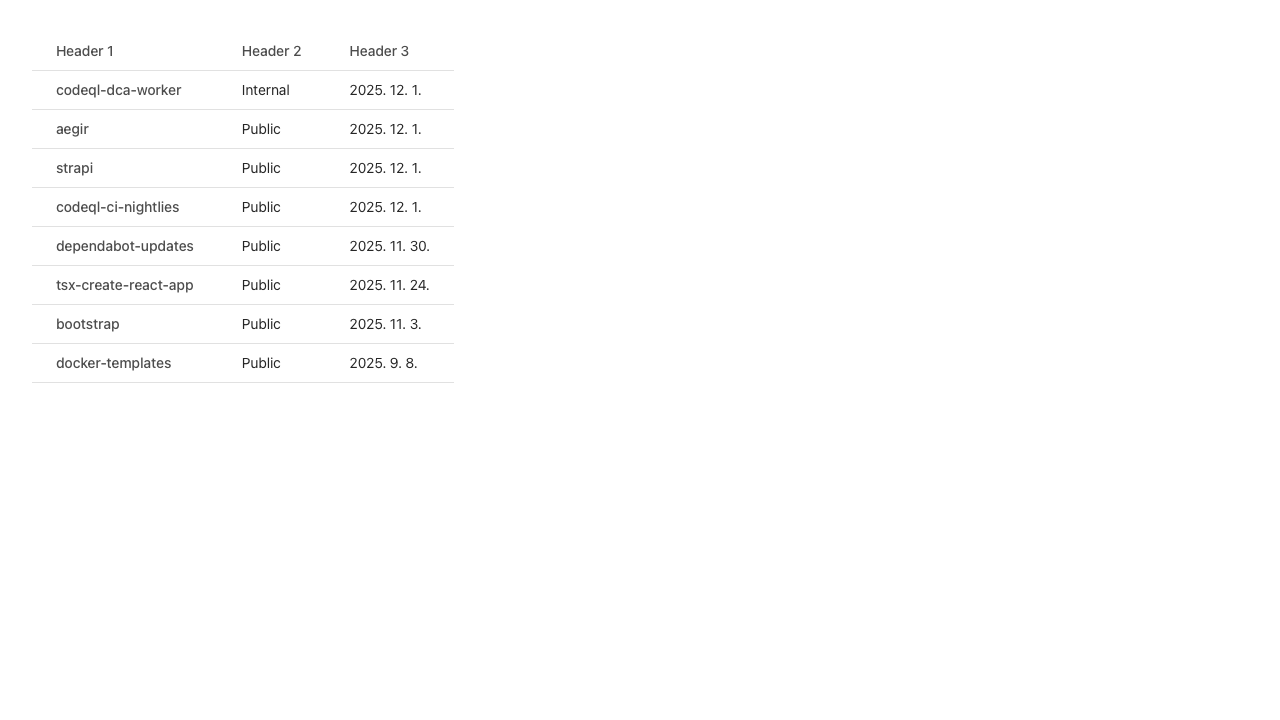
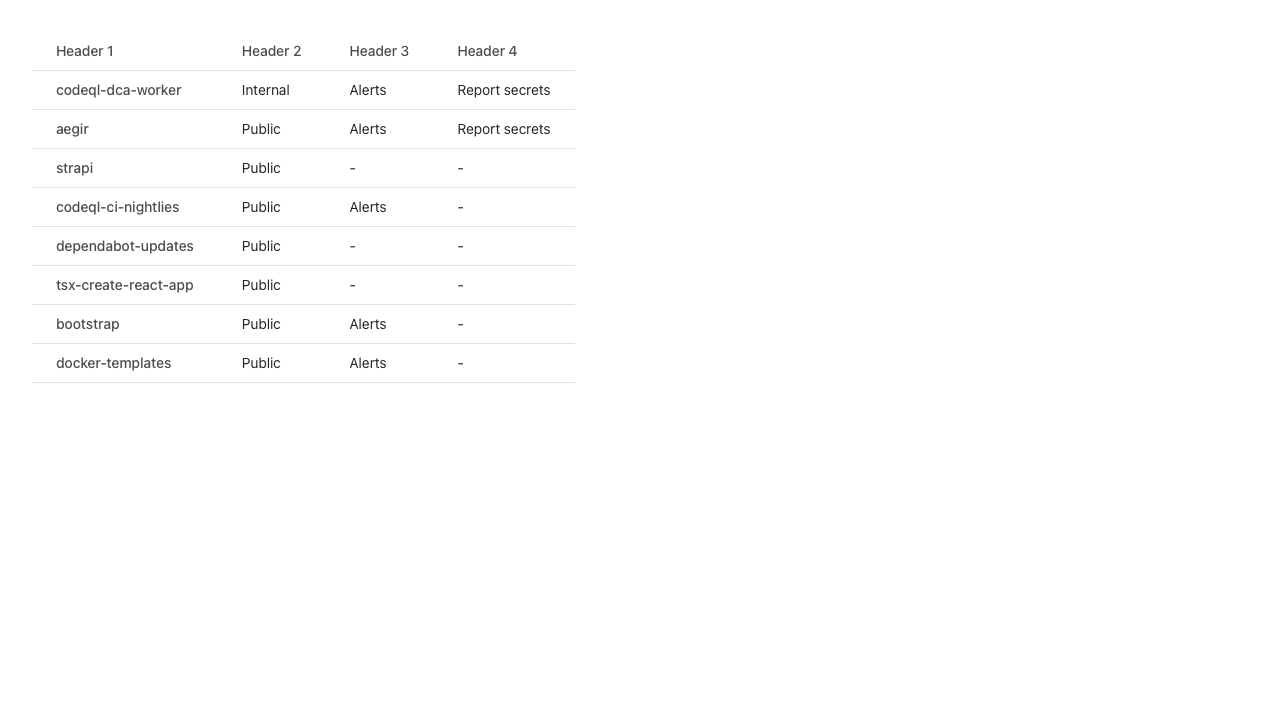
update snapshots

diff --git a/packages/core/src/components/table/table.stories.tsx b/packages/core/src/components/table/table.stories.tsx
@@ -21,6 +21,7 @@ export const Default: StoryObj<typeof Table.Root> = {
                     <Table.Heading>Header 1</Table.Heading>
                     <Table.Heading>Header 2</Table.Heading>
                     <Table.Heading>Header 3</Table.Heading>
+                    <Table.Heading>Header 4</Table.Heading>
                 </Table.Row>
             </Table.Header>
             <Table.Body>
@@ -28,11 +29,8 @@ export const Default: StoryObj<typeof Table.Root> = {
                     <Table.Row key={item.id}>
                         <Table.Heading>{item.name}</Table.Heading>
                         <Table.Cell>{item.type}</Table.Cell>
-                        <Table.Cell>
-                            <time dateTime={new Date(item.updatedAt).toISOString()}>
-                                {new Date(item.updatedAt).toLocaleDateString('ko-KR')}
-                            </time>
-                        </Table.Cell>
+                        <Table.Cell>{item.securityFeatures.dependabot || '-'}</Table.Cell>
+                        <Table.Cell>{item.securityFeatures.codeScanning || '-'}</Table.Cell>
                     </Table.Row>
                 ))}
             </Table.Body>
@@ -40,19 +38,10 @@ export const Default: StoryObj<typeof Table.Root> = {
     ),
 };
 
-const now = Date.now();
-const Second = 1000;
-const Minute = 60 * Second;
-const Hour = 60 * Minute;
-const Day = 24 * Hour;
-const Week = 7 * Day;
-const Month = 4 * Week;
-
 type Data = {
     id: number;
     name: string;
     type: 'Public' | 'Internal';
-    updatedAt: number;
     securityFeatures: {
         dependabot: string;
         codeScanning: string;
@@ -64,7 +53,6 @@ const data: Array<Data> = [
         id: 1,
         name: 'codeql-dca-worker',
         type: 'Internal',
-        updatedAt: now,
         securityFeatures: {
             dependabot: 'Alerts',
             codeScanning: 'Report secrets',
@@ -74,7 +62,6 @@ const data: Array<Data> = [
         id: 2,
         name: 'aegir',
         type: 'Public',
-        updatedAt: now - 5 * Minute,
         securityFeatures: {
             dependabot: 'Alerts',
             codeScanning: 'Report secrets',
@@ -84,7 +71,6 @@ const data: Array<Data> = [
         id: 3,
         name: 'strapi',
         type: 'Public',
-        updatedAt: now - 1 * Hour,
         securityFeatures: {
             dependabot: '',
             codeScanning: '',
@@ -94,7 +80,6 @@ const data: Array<Data> = [
         id: 4,
         name: 'codeql-ci-nightlies',
         type: 'Public',
-        updatedAt: now - 6 * Hour,
         securityFeatures: {
             dependabot: 'Alerts',
             codeScanning: '',
@@ -104,7 +89,6 @@ const data: Array<Data> = [
         id: 5,
         name: 'dependabot-updates',
         type: 'Public',
-        updatedAt: now - 1 * Day,
         securityFeatures: {
             dependabot: '',
             codeScanning: '',
@@ -114,7 +98,6 @@ const data: Array<Data> = [
         id: 6,
         name: 'tsx-create-react-app',
         type: 'Public',
-        updatedAt: now - 1 * Week,
         securityFeatures: {
             dependabot: '',
             codeScanning: '',
@@ -124,14 +107,12 @@ const data: Array<Data> = [
         id: 7,
         name: 'bootstrap',
         type: 'Public',
-        updatedAt: now - 1 * Month,
         securityFeatures: { dependabot: 'Alerts', codeScanning: '' },
     },
     {
         id: 8,
         name: 'docker-templates',
         type: 'Public',
-        updatedAt: now - 3 * Month,
         securityFeatures: {
             dependabot: 'Alerts',
             codeScanning: '',
